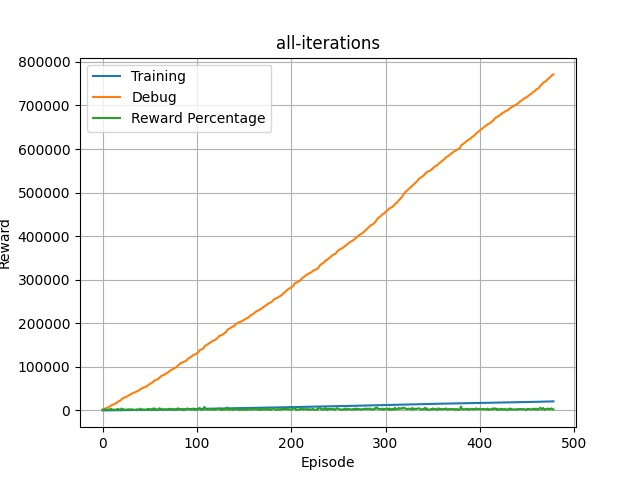
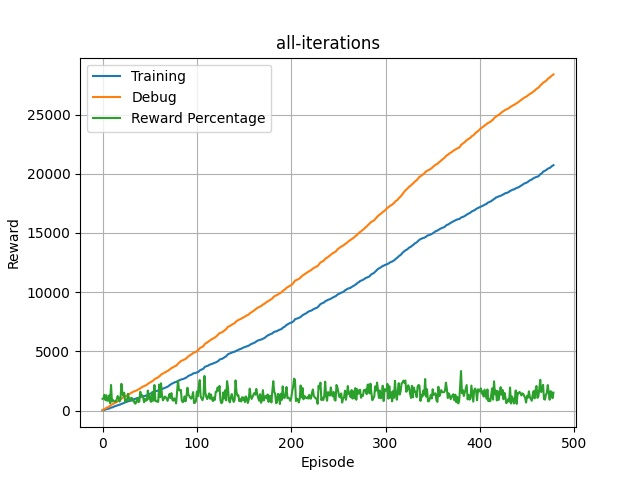
dlcf@home

diff --git a/model10.py b/model10.py
@@ -23,27 +23,90 @@ def reward_function(params):
 
     #
     # distance reward
-    distance_reward = 1e-3
+    reward = distance_reward(reward, track_width, distance_from_center)
 
+    #
+    # direction reward
+    reward = direction_reward(reward, waypoints, closest_waypoints, heading, steering_angle)
+
+    #
+    # speed reward
+    reward = speed_reward(reward, speed, closest_waypoints)
+
+    #
+    # steps reward
+    reward = steps_reward(reward, steps, progress)
+
+    # on track checking
+    if not all_wheels_on_track:
+        reward = 1e-3
+
+    return float(reward)
+
+
+def maximum_reward(params):
+    reward = 1.0
+
+    #
+    # maximum distance reward
+    track_width = 0.76
+    distance_from_center = 0.0
+    reward = distance_reward(reward, track_width, distance_from_center)
+
+    #
+    # maximum direction reward
+    waypoints = params['waypoints']
+    closest_waypoints = params['closest_waypoints']
+
+    prev_point = waypoints[closest_waypoints[0]]
+    next_point = waypoints[closest_waypoints[1]]
+    i = divmod(closest_waypoints[1] + 1, len(waypoints))[1]
+    track_direction = math.atan2(next_point[1] - prev_point[1], next_point[0] - prev_point[0])
+    track_direction = math.degrees(track_direction)
+
+    heading = track_direction
+    steering_angle = 0.0
+    reward = direction_reward(reward, waypoints, closest_waypoints, heading, steering_angle)
+
+    # maximum speed reward
+    speed = 3.0
+    reward = speed_reward(reward, speed, closest_waypoints)
+
+    #
+    # steps reward
+    track_length = 17.71
+    standard_speed = 1.2
+    steps = 15 * track_length / standard_speed
+    progress = 1.0
+    reward = steps_reward(reward, steps, progress)
+
+    # return maximum reward
+    return reward
+
+
+def distance_reward(reward, track_width, distance_from_center):
+    #
     # Calculate 3 markers that are at varying distances away from the center line
     marker_1 = 0.1 * track_width
     marker_2 = 0.25 * track_width
     marker_3 = 0.5 * track_width
+    #
     # Give higher reward if the car is closer to center line and vice versa
     if distance_from_center <= marker_1:
-        distance_reward = 1.0
+        reward += 1.0
     elif distance_from_center <= marker_2:
-        distance_reward = 0.5
+        reward += 0.5
     elif distance_from_center <= marker_3:
-        distance_reward = 0.1
+        reward += 0.1
     else:
         reward = 1e-3  # likely crashed/ close to off track
 
-    reward += distance_reward
+    return reward
 
-    #
-    # direction reward
+
+def direction_reward(reward, waypoints, closest_waypoints, heading, steering_angle):
     direction_reward = 1e-3
+
     prev_point = waypoints[closest_waypoints[0]]
     next_point = waypoints[closest_waypoints[1]]
     i = divmod(closest_waypoints[1] + 1, len(waypoints))[1]
@@ -70,10 +133,13 @@ def reward_function(params):
             direction_reward = 1.5 * reward
         else:
             direction_reward = -0.5 * reward
+
     reward += direction_reward
 
-    #
-    # speed reward
+    return reward
+
+
+def speed_reward(reward, speed, closest_waypoints):
     speed_reward = 1e-3  # default against 2 m/s
     if closest_waypoints[0] < 21:
         speed_reward = divmod(speed, 3)[1]
@@ -102,9 +168,11 @@ def reward_function(params):
 
     reward += speed_reward
 
-    #
-    # steps reward
-    track_length = 17.6
+    return reward
+
+
+def steps_reward(reward, steps, progress):
+    track_length = 17.71
     standard_speed = 1.2
     step_reward = 1e-3
     s = divmod(standard_speed * steps / 15, track_length)[1]
@@ -117,9 +185,7 @@ def reward_function(params):
         step_reward = 1
     else:
         step_reward = 1e-1
+
     reward += step_reward
 
-    if not all_wheels_on_track:
-        reward = 1e-3
-
-    return float(reward)
+    return reward

diff --git a/reward_function_debugger.py b/reward_function_debugger.py
@@ -7,8 +7,8 @@ from functions_2d import *
 # from model8 import reward_function
 # from deep_racer import reward_function
 # from model9 import reward_function
-# from model10 import reward_function
-from model11 import *
+from model10 import *
+# from model11 import *
 
 
 def read_csv_file(file_name, episode_num=-1):
@@ -383,7 +383,7 @@ def plot_reward(training_log_dir):
             steps = log_parmas['steps']
             tstamp = log_parmas['tstamp']
 
-            max_reward = maximum_reward()
+            max_reward = 1.0
 
             x = []
             y = []
@@ -427,6 +427,8 @@ def plot_reward(training_log_dir):
                 steps_of_episode = steps[i]
 
                 params = get_params(log_parmas, i)
+
+                max_reward = maximum_reward(params)
 
                 temp_reward = reward_function(params)
 
@@ -669,23 +671,23 @@ def generate_racing_track():
 if __name__ == '__main__':
     # generate_racing_track()
 
-    training_log = os.path.dirname(__file__) + r'\aws\training-simtrace\dlcf-htc-2021-model6-clone\all'
-    plot_reward(training_log)
-    training_log = os.path.dirname(__file__) + r'\aws\training-simtrace\dlcf-htc-2021-model6-clone-clone-clone\all'
-    plot_reward(training_log)
-    training_log = os.path.dirname(__file__) + r'\aws\training-simtrace\dlcf-htc-2021-model6\all'
-    plot_reward(training_log)
-    training_log = os.path.dirname(__file__) + r'\aws\training-simtrace\dlcf-htc-2021-model1\all'
-    plot_reward(training_log)
-    training_log = os.path.dirname(__file__) + r'\aws\training-simtrace\model1\all'
-    plot_reward(training_log)
-    training_log = os.path.dirname(__file__) + r'\aws\training-simtrace\model8-clone\all'
-    plot_reward(training_log)
-    training_log = os.path.dirname(__file__) + r'\aws\training-simtrace\model8-clone-clone-clone\all'
-    plot_reward(training_log)
-    training_log = os.path.dirname(__file__) + r'\aws\training-simtrace\model8-clone-clone-clone-clone\all'
-    plot_reward(training_log)
+    # training_log = os.path.dirname(__file__) + r'\aws\training-simtrace\dlcf-htc-2021-model6-clone\all'
+    # plot_reward(training_log)
+    # training_log = os.path.dirname(__file__) + r'\aws\training-simtrace\dlcf-htc-2021-model6-clone-clone-clone\all'
+    # plot_reward(training_log)
+    # training_log = os.path.dirname(__file__) + r'\aws\training-simtrace\dlcf-htc-2021-model6\all'
+    # plot_reward(training_log)
+    # training_log = os.path.dirname(__file__) + r'\aws\training-simtrace\dlcf-htc-2021-model1\all'
+    # plot_reward(training_log)
+    # training_log = os.path.dirname(__file__) + r'\aws\training-simtrace\model1\all'
+    # plot_reward(training_log)
+    # training_log = os.path.dirname(__file__) + r'\aws\training-simtrace\model8-clone\all'
+    # plot_reward(training_log)
+    # training_log = os.path.dirname(__file__) + r'\aws\training-simtrace\model8-clone-clone-clone\all'
+    # plot_reward(training_log)
+    # training_log = os.path.dirname(__file__) + r'\aws\training-simtrace\model8-clone-clone-clone-clone\all'
+    # plot_reward(training_log)
     training_log = os.path.dirname(__file__) + r'\aws\training-simtrace\model9\all'
     plot_reward(training_log)
-    training_log = os.path.dirname(__file__) + r'\aws\training-simtrace\ben-model3-clone\all'
-    plot_reward(training_log)
+    # training_log = os.path.dirname(__file__) + r'\aws\training-simtrace\ben-model3-clone\all'
+    # plot_reward(training_log)
